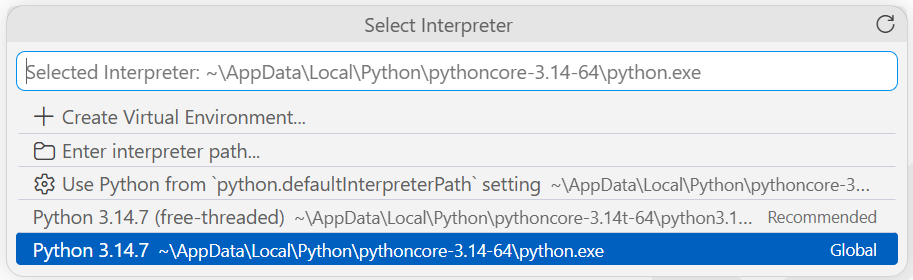
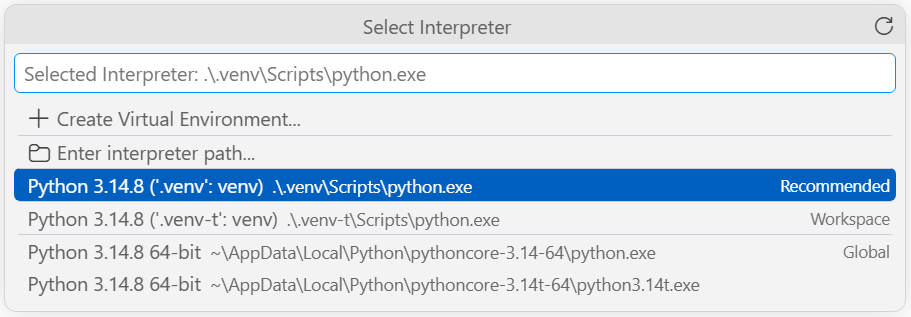
Correct terminology and outputs reported from the lecture decks
- Python Install Manager 26.3 output: Alias column, empty-list header,
  signature and PATH hint lines after py install, with a short explanation;
  a note on %UserProfile%/%LocalAppData% versus $env: in PowerShell
- IPython banner with the full version line and the startup tip, run in
  the project venv; the pip upgrade notice comes from pip and is conditional
- Ctrl+D in the new REPL and on Linux/macOS; ** comments without ^
- typing.Optional is not deprecated, only the List-style aliases are
- reference counting frees objects, the garbage collector handles cycles
- IEEE-754 binary64 is used on 32-bit platforms too
- if/elif/else is a statement, the ternary form is an expression
  (heading anchor changes to #instrukcja-if-elif-else)
- shared cells in [[0]*Y ...] come from the shared constant, not only
  from the small-int cache
- subset/superset described as element membership
- comma after the zamiast clause; "kilka wierszy wcześniej"
- refreshed VS Code interpreter picker screenshot (3.14.8, .venv and .venv-t)

diff --git a/docs/01-instalacja/instalacja.md b/docs/01-instalacja/instalacja.md
@@ -118,7 +118,11 @@ Python install manager
     Jeżeli polecenie `python` otwiera sklep Microsoft Store albo nie jest rozpoznawane,
     oficjalna dokumentacja zaleca sprawdzenie powyższych aliasów, a jeśli są już
     włączone — ich wyłączenie i ponowne włączenie. Zmienna `PATH` powinna ponadto
-    zawierać katalog `%UserProfile%\AppData\Local\Microsoft\WindowsApps`. Po zmianie
+    zawierać katalog `%UserProfile%\AppData\Local\Microsoft\WindowsApps`. Zapis
+    `%UserProfile%` oznacza wartość zmiennej środowiskowej; w tej postaci ścieżki
+    podaje system Windows i dokumentacja Pythona. Program PowerShell nie rozwija
+    takiego zapisu — tę samą wartość zwraca w nim wyrażenie `$env:USERPROFILE`
+    (podobnie `%LocalAppData%` odpowiada `$env:LOCALAPPDATA`). Po zmianie
     aliasów należy zamknąć terminal i otworzyć nowe okno programu PowerShell.
 
 ## Sprawdzenie managera
@@ -144,7 +148,7 @@ py list
 zwróci:
 
 ```{ .text .no-copy }
-Tag  Name  Managed By  Version  Alias
+Tag     Name  Managed By  Version  Alias
 -- No runtimes. Use 'py install <version>' to install one. --
 ```
 
@@ -170,13 +174,13 @@ py list --online --one 3.14t
 Przykładowe wyniki:
 
 ```{ .text .no-copy }
-Tag           Name           Managed By  Version
-3.14[-64]     Python 3.14.8  PythonCore  3.14.8
+Tag           Name           Managed By  Version  Alias
+3.14[-64]     Python 3.14.8  PythonCore  3.14.8   python3[-64].exe, python3.14[-64].exe
 ```
 
 ```{ .text .no-copy }
-Tag            Name                           Managed By  Version
-3.14t[-64]     Python 3.14.8 (free-threaded)  PythonCore  3.14.8
+Tag            Name                           Managed By  Version  Alias
+3.14t[-64]     Python 3.14.8 (free-threaded)  PythonCore  3.14.8   python3.14t[-64].exe, python3t[-64].exe
 ```
 
 Polecenie to jest szczególnie użyteczne, ponieważ wypisany w ten sposób pakiet jest dokładnie tym, który zostanie wybrany przez polecenie `py install 3.14`.
@@ -192,13 +196,17 @@ py install 3.14 3.14t
 Manager pobierze i zainstaluje oba warianty:
 
 ```{ .text .no-copy }
+The signature for https://www.python.org/ftp/python/index-windows.json was successfully verified.
 Installing Python 3.14.8.
 ...
 Installing Python 3.14.8 (free-threaded).
 ...
+
+Global shortcuts directory is not on PATH. Add it for easy access to global Python aliases.
+Directory to add: C:\Users\...\AppData\Local\Python\bin
 ```
 
-Polecenie `py install` przyjmuje jeden lub wiele tagów jednocześnie.
+Polecenie `py install` przyjmuje jeden lub wiele tagów jednocześnie. Pierwszy wiersz wyniku potwierdza poprawność podpisu cyfrowego pobranego indeksu dostępnych wersji. Końcowy komunikat dotyczy katalogu `%LocalAppData%\Python\bin`, w którym manager umieszcza globalne aliasy interpreterów wymienione w kolumnie `Alias` (np. `python3.14.exe`); dodanie tego katalogu do zmiennej `PATH` jest opcjonalne, co wyjaśnia ramka w podrozdziale [Ścieżki i utrzymanie interpreterów](sciezki-i-utrzymanie.md#path-pierwsze-znaczenie-sciezki).
 
 ## Kontrola po instalacji
 
@@ -209,9 +217,9 @@ py list
 Oczekiwany wynik:
 
 ```{ .text .no-copy }
-Tag            Name                           Managed By  Version
-3.14[-64]   *  Python 3.14.8                  PythonCore  3.14.8
-3.14t[-64]     Python 3.14.8 (free-threaded)  PythonCore  3.14.8
+Tag            Name                           Managed By  Version  Alias
+3.14[-64]   *  Python 3.14.8                  PythonCore  3.14.8   python3[-64].exe, python3.14[-64].exe
+3.14t[-64]     Python 3.14.8 (free-threaded)  PythonCore  3.14.8   python3.14t[-64].exe, python3t[-64].exe
 ```
 
 Gwiazdka `*` oznacza **interpreter domyślny**. Domyślnym interpreterem powinien być wariant standardowy 3.14, a nie 3.14t. Manager domyślnie wybiera najnowszą stabilną wersję, chyba że konfiguracja stanowi inaczej — domyślny tag można ustawić opcją konfiguracyjną `default_tag` lub zmienną środowiskową `PYTHON_MANAGER_DEFAULT`.

diff --git a/docs/03-nazwy-typy/obiekty-i-pamiec.md b/docs/03-nazwy-typy/obiekty-i-pamiec.md
@@ -14,7 +14,7 @@ Utworzone obiekty zajmują pewien obszar pamięci. Nie wchodząc w szczegóły n
 
 Podane wartości (w bajtach) dotyczą CPythona 3.14 w wersji 64-bitowej — w innych wersjach interpretera mogą się nieznacznie różnić. Widać, że nawet „puste” obiekty niosą narzut: obiekt w Pythonie przechowuje m.in. informację o typie i licznik referencji.
 
-Alokacja i zwalnianie pamięci w Pythonie są automatyczne. Python używa dwóch strategii: **zliczanie referencji** (ang. *reference counting*) i **odśmiecacz** (ang. *garbage collector*). Odśmiecanie to proces, w którym interpreter zwalnia pamięć, gdy nie jest używana, aby udostępnić ją innym obiektom. Jeśli żadne odwołanie nie wskazuje na obiekt w pamięci (tj. nie jest on używany), garbage collector automatycznie usuwa ten obiekt z pamięci. Zliczanie odwołań polega na ustaleniu, ile razy do obiektu odwołują się inne obiekty w systemie. Po usunięciu odwołań zmniejsza się licznik odwołań do obiektu. Gdy licznik odwołań osiągnie zero, obiekt jest zwalniany. W Pythonie wywołania metod i referencje są przechowywane w pamięci stosu, a wszystkie obiekty wartości są przechowywane na prywatnej stercie.
+Alokacja i zwalnianie pamięci w Pythonie są automatyczne. Interpreter zwalnia pamięć zajmowaną przez obiekty, których program już nie używa, aby udostępnić ją innym obiektom. CPython stosuje w tym celu dwa mechanizmy: **zliczanie referencji** (ang. *reference counting*) i **odśmiecacz** (ang. *garbage collector*). Zliczanie referencji polega na tym, że każdy obiekt przechowuje liczbę wskazujących na niego odwołań; utworzenie odwołania zwiększa ten licznik, a usunięcie — zmniejsza. Gdy licznik osiągnie zero, czyli żadne odwołanie nie wskazuje już na obiekt, CPython zwalnia go natychmiast. Odśmiecacz uzupełnia ten mechanizm: wykrywa i zwalnia grupy obiektów odwołujących się do siebie nawzajem, czyli **cykle referencji** (ang. *reference cycles*), których liczniki nie spadają do zera, choć program nie ma już do nich dostępu (podrozdział [Cykl życia obiektu](../10-klasy/cykl-zycia-obiektu.md#cykle-referencji-i-modu-gc) w rozdziale 10). W Pythonie wywołania metod i referencje są przechowywane w pamięci stosu, a wszystkie obiekty wartości są przechowywane na prywatnej stercie.
 
 ## Niemodyfikowalność i identyfikacja obiektów
 

diff --git a/docs/03-nazwy-typy/typy-proste.md b/docs/03-nazwy-typy/typy-proste.md
@@ -161,8 +161,9 @@ True
 ```
 
 !!! note "IEEE-754"
-    Komputery 64-bitowe używają arytmetyki zmiennoprzecinkowej IEEE-754 w „podwójnej
-    precyzji”: 1 bit na znak, 11 bitów na wykładnik i pozostałe 52 bity na mantysę.
+    Na praktycznie wszystkich platformach — zarówno 64-, jak i 32-bitowych — wartości
+    typu float są liczbami zmiennoprzecinkowymi IEEE-754 „podwójnej precyzji”
+    (64 bity): 1 bit na znak, 11 bitów na wykładnik i pozostałe 52 bity na mantysę.
     Ponieważ liczba znormalizowana ma zawsze postać 1.xxx…, wiodąca jedynka nie jest
     przechowywana (tzw. bit ukryty) — 52 bity zapisane jawnie dają więc 53 bity
     precyzji, wspomniane wyżej przy liczniku ułamka. Liczba to:
@@ -352,7 +353,7 @@ Długość obiektu (liczbę elementów w kolekcji) zwraca funkcja `len()` — dl
 >>> "-".join(["a", "b", "c"])   # 'a-b-c' — łączenie elementów separatorem
 ```
 
-Zwróćmy uwagę, że `x.find("AA")` zwraca −1, mimo iż linijkę wyżej wykonaliśmy `replace` — metody zwracają **kopie**, oryginalny `x` pozostał niezmieniony. Warto też zauważyć puste łańcuchy w wyniku `split(" ")` — pochodzą ze spacji na krańcach; praktyczny idiom to `x.strip().split()`. Metodę `join()` — działającą na dowolnym obiekcie iterowalnym — zobaczymy w akcji w rozdziale [4. Sterowanie przepływem](../04-sterowanie/petle-i-iteratory.md). Pełny katalog metod: [docs.python.org/3/library/stdtypes.html#string-methods](https://docs.python.org/3/library/stdtypes.html#string-methods).
+Zwróćmy uwagę, że `x.find("AA")` zwraca −1, mimo iż kilka wierszy wcześniej wykonaliśmy `replace` — metody zwracają **kopie**, oryginalny `x` pozostał niezmieniony. Warto też zauważyć puste łańcuchy w wyniku `split(" ")` — pochodzą ze spacji na krańcach; praktyczny idiom to `x.strip().split()`. Metodę `join()` — działającą na dowolnym obiekcie iterowalnym — zobaczymy w akcji w rozdziale [4. Sterowanie przepływem](../04-sterowanie/petle-i-iteratory.md). Pełny katalog metod: [docs.python.org/3/library/stdtypes.html#string-methods](https://docs.python.org/3/library/stdtypes.html#string-methods).
 
 ### Unicode: ord i chr
 

diff --git a/docs/05-typy-zlozone/referencje-i-kopiowanie.md b/docs/05-typy-zlozone/referencje-i-kopiowanie.md
@@ -37,7 +37,7 @@ tab2d = [[0]*Y for _ in range(X)]   # zmiennej _ nie potrzebujemy
     [[7, 0], [7, 0], [7, 0], [7, 0]]
     ```
 
-Nawet w przypadku „poprawnie” skonstruowanej dwuwymiarowej tablicy warto sobie uświadomić, że poszczególne komórki takiej struktury są **referencjami** do określonych miejsc w pamięci. Jeśli zbudujemy tablicę wypełnioną samymi zerami, wszystkie komórki pokazują na ten sam adres — to opisana w rozdziale [3. Nazwy i typy](../03-nazwy-typy/obiekty-i-pamiec.md) optymalizacja małych wartości całkowitych z zakresu [-5, 256]. Jakakolwiek zmiana zawartości komórki pociąga za sobą zmianę dowiązania adresowego:
+Nawet w przypadku „poprawnie” skonstruowanej dwuwymiarowej tablicy warto sobie uświadomić, że poszczególne komórki takiej struktury są **referencjami** do określonych miejsc w pamięci. Jeśli zbudujemy tablicę wypełnioną samymi zerami, wszystkie komórki wskazują ten sam adres. Wynika to z samej konstrukcji tablicy: literał `0` kompilator przechowuje jako jedną stałą, więc w każdym przebiegu złożenia listowego zapis `[0]*Y` powiela referencję do tego samego obiektu — dla tablicy wypełnionej wartością 1000 wynik byłby identyczny. Opisana w rozdziale [3. Nazwy i typy](../03-nazwy-typy/obiekty-i-pamiec.md) optymalizacja małych wartości całkowitych z zakresu [-5, 256] wyjaśnia natomiast, dlaczego ten sam adres zwraca osobno wywołane `id(0)`, a po zmianie komórki — `id(7)`. Jakakolwiek zmiana zawartości komórki pociąga za sobą zmianę dowiązania adresowego:
 
 ```{ .python .no-copy }
 >>> tab2d = [[0]*Y for _ in range(X)]

diff --git a/docs/01-instalacja/pip.md b/docs/01-instalacja/pip.md
@@ -73,10 +73,11 @@ python -m pip install ipython
 Po zainstalowaniu powłokę uruchamiamy poleceniem `ipython`:
 
 ```{ .text .no-copy }
-PS C:\> ipython
-Python 3.14.8 (tags/v3.14.8, ...) [MSC v.1944 64 bit (AMD64)]
+(.venv) PS C:\projekty\moj-projekt> ipython
+Python 3.14.8 (tags/v3.14.8:8e6e75d, Sep 30 2026, 18:19:33) [MSC v.1944 64 bit (AMD64)]
 Type 'copyright', 'credits' or 'license' for more information
 IPython 9.17.1 -- An enhanced Interactive Python. Type '?' for help.
+Tip: The `%timeit` magic has a `-o` flag, which returns the results, making it easy to plot. See `%timeit?`.
 
 In [1]: print("hello")
 hello
@@ -84,9 +85,9 @@ hello
 In [2]:
 ```
 
-Znaki zachęty `In [1]:`, `In [2]:` … pokazują wspomnianą numerację kolejnych poleceń. Powłokę opuszczamy poleceniem `exit`.
+Znaki zachęty `In [1]:`, `In [2]:` … pokazują wspomnianą numerację kolejnych poleceń. Wiersz rozpoczynający się od `Tip:` zawiera losowo wybraną wskazówkę dotyczącą pracy w powłoce, dlatego przy kolejnych uruchomieniach może mieć inną treść. Powłokę opuszczamy poleceniem `exit`.
 
-Python często informuje przy tej okazji, że sam pip ma nowszą wersję, i zachęca do aktualizacji — wykonujemy ją poleceniem:
+Jeżeli w PyPI dostępna jest nowsza wersja pip niż zainstalowana, sam pip informuje o tym na końcu wyniku instalacji (wiersze rozpoczynające się od `[notice]`) i zachęca do aktualizacji — wykonujemy ją poleceniem:
 
 ```powershell title="Terminal"
 python -m pip install --upgrade pip

diff --git a/docs/02-konsola/index.md b/docs/02-konsola/index.md
@@ -11,7 +11,7 @@ Python można uruchomić w oknie **cmd** Windows (niewygodne), w **PowerShell** 
 
 ## Wejście do konsoli i wyjście z niej
 
-Do konsoli wchodzimy poleceniem `python` (lub `py`) — pojawi się znak zachęty `>>>`. Każda wprowadzona linia jest natychmiast wykonywana, a wynik wypisywany na ekran. Konsolę opuszczamy poleceniem `exit` (bez nawiasów; w starszych wersjach `exit()`) albo skrótem ++ctrl+z++ i ++enter++. Warto wykonać kilka poleceń, aby zapoznać się z tym trybem pracy — praktyczne eksperymenty zawiera podrozdział [Konsola w praktyce](konsola-w-praktyce.md).
+Do konsoli wchodzimy poleceniem `python` (lub `py`) — pojawi się znak zachęty `>>>`. Każda wprowadzona linia jest natychmiast wykonywana, a wynik wypisywany na ekran. Konsolę opuszczamy poleceniem `exit` (bez nawiasów; w starszych wersjach `exit()`) albo skrótem ++ctrl+z++ i ++enter++, a w nowej konsoli (od Pythona 3.13) także skrótem ++ctrl+d++ w pustym wierszu. W systemach Linux i macOS zamiast ++ctrl+z++ i ++enter++ stosujemy ++ctrl+d++ — tam ++ctrl+z++ nie kończy pracy, lecz wstrzymuje interpreter (wznawia go polecenie powłoki `fg`). Warto wykonać kilka poleceń, aby zapoznać się z tym trybem pracy — praktyczne eksperymenty zawiera podrozdział [Konsola w praktyce](konsola-w-praktyce.md).
 
 ## Nowa konsola interaktywna
 

diff --git a/docs/04-sterowanie/wyrazenia-warunkowe.md b/docs/04-sterowanie/wyrazenia-warunkowe.md
@@ -1,8 +1,8 @@
 # Wyrażenia warunkowe
 
-## Wyrażenie if, elif, else
+## Instrukcja if, elif, else
 
-Kluczową rolę grają odpowiednie wcięcia kodu. Wyrażenia if mogą być zagnieżdżone, ale odpowiednie głębokości wcięć muszą być zachowane.
+Kluczową rolę grają odpowiednie wcięcia kodu. Instrukcje if mogą być zagnieżdżone, ale odpowiednie głębokości wcięć muszą być zachowane.
 
 ```python title="warunki.py"
 x = int(input("Wpisz liczbe calkowita: "))
@@ -30,7 +30,7 @@ W wielu językach programowania istnieje operator trójargumentowy — jego idea
 'duzo'
 ```
 
-Możliwe jest zagnieżdżanie trójskładnikowych instrukcji warunkowych; trzeba przy tym uważać, żeby zapisana logika odpowiadała rzeczywiście naszym zamiarom. Przykład z podwójnie zagnieżdżonym warunkiem if:
+Możliwe jest zagnieżdżanie wyrażeń z operatorem trójskładnikowym; trzeba przy tym uważać, żeby zapisana logika odpowiadała rzeczywiście naszym zamiarom. Przykład z podwójnie zagnieżdżonym warunkiem if:
 
 ```python title="zagniezdzenia.py"
 a = False

diff --git a/docs/03-nazwy-typy/konwersje-i-adnotacje.md b/docs/03-nazwy-typy/konwersje-i-adnotacje.md
@@ -58,7 +58,7 @@ ceny: list[float] = []        # od Pythona 3.9 (PEP 585)
 wynik: int | None = None      # od Pythona 3.10 (PEP 604)
 ```
 
-W starszym kodzie można spotkać zapis z modułu `typing` (`List[float]`, `Optional[int]`) — aliasy te są dziś w dokumentacji oznaczone jako przestarzałe i w nowym kodzie nie są zalecane.
+W starszym kodzie można spotkać zapis z modułu `typing`: `List[float]` zamiast `list[float]` oraz `Optional[int]` zamiast `int | None`. Dokumentacja oznacza `List` jako przestarzały alias typu `list`; `Optional` przestarzały nie jest, ale ma krótszy odpowiednik z operatorem `|`. W nowym kodzie stosujemy zapis współczesny.
 
 Pisanie kodu z podaniem typu nie zmienia dynamicznego charakteru tworzenia obiektów — Python w czasie działania programu **nie wymusza** zgodności z adnotacją; stanowi ona rodzaj etykiety zwiększającej czytelność kodu.
 

diff --git a/docs/05-typy-zlozone/zbiory.md b/docs/05-typy-zlozone/zbiory.md
@@ -84,8 +84,8 @@ Operacje dla operatorów można połączyć z przypisaniem: `|=` (funkcja update
 Relacje pomiędzy elementami dwóch kontenerów set można sprawdzić za pomocą:
 
 - `s1.isdisjoint(s2)` — jeśli brak elementów wspólnych, zwraca True
-- `s1.issubset(s2)` — prawda, jeśli wszystkie elementy s1 są podzbiorem s2; można też zapisać relacją `<=`
-- `s1.issuperset(s2)` — prawda, jeśli wszystkie elementy s2 są podzbiorem s1; relacja `>=`
+- `s1.issubset(s2)` — prawda, jeśli wszystkie elementy s1 należą do s2 (s1 jest podzbiorem s2); można też zapisać relacją `<=`
+- `s1.issuperset(s2)` — prawda, jeśli wszystkie elementy s2 należą do s1 (s1 jest nadzbiorem s2); relacja `>=`
 
 ```{ .python .no-copy }
 s1 = {2,1}

diff --git a/docs/06-funkcje/zasieg-nazw-i-domkniecia.md b/docs/06-funkcje/zasieg-nazw-i-domkniecia.md
@@ -250,7 +250,7 @@ Deklaracja obowiązuje w całym ciele funkcji i musi poprzedzać każde użycie 
 !!! warning "global nie jest sposobem na przechowywanie stanu"
     Deklaracja `global` służy do jawnego wskazania nielicznych sytuacji,
     w których funkcja ma zmienić nazwę modułu. Funkcja, która zamiast
-    przyjmować dane przez parametry i oddawać wynik przez `return` sięga do
+    przyjmować dane przez parametry i oddawać wynik przez `return`, sięga do
     nazw globalnych, utrudnia śledzenie przepływu danych: jej wynik zależy od
     tego, co inne fragmenty programu zrobiły wcześniej. Częste używanie
     `global` jest zwykle sygnałem, że kod warto przebudować.

diff --git a/docs/02-konsola/konsola-w-praktyce.md b/docs/02-konsola/konsola-w-praktyce.md
@@ -12,8 +12,8 @@ Najprostszym zastosowaniem konsoli jest kalkulator. Spróbujmy:
 >>> 17 // 3    # dzielenie bez reszty
 >>> 17 % 3     # modulo, czyli reszta z dzielenia
 >>> 5 * 3 + 2
->>> 5 ** 2     # 5^2
->>> 2 ** 7     # 2^7
+>>> 5 ** 2     # potęgowanie: 5 do kwadratu
+>>> 2 ** 7     # 2 do potęgi 7
 >>> width = 20
 >>> height = 5 * 9
 >>> width * height
